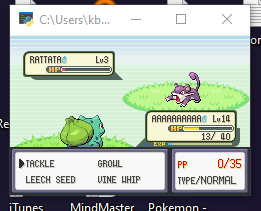
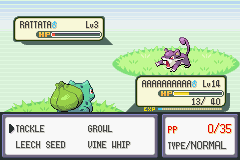
can detect out of PP and choose a different attack

diff --git a/firered/firecv.py b/firered/firecv.py
@@ -11,6 +11,13 @@ import vision
 env = retro.make('PokemonFireRedVersion-GbAdvance', 'start')
 env.reset()
 
+directions = [
+    [0, 0, 0, 0, 0, 0, 0, 1, 0, 0, 0, 0], # move right
+    [0, 0, 0, 0, 0, 1, 0, 0, 0, 0, 0, 0], # move down
+    [0, 0, 0, 0, 0, 0, 1, 0, 0, 0, 0, 0], # move left
+    [0, 0, 0, 0, 1, 0, 0, 0, 0, 0, 0, 0]  # move up
+]
+
 aButton = [0, 0, 0, 0, 0, 0, 0, 0, 1, 0, 0, 0]
 bButton = [1, 0, 0, 0, 0, 0, 0, 0, 0, 0, 0, 0]
 
@@ -20,69 +27,88 @@ tile = 16 # sixteen pixels in a square
 
 
 def increment():
-    for x in range(20):
+    for _ in range(30):
         ob, rew, done, info = env.step(empty)
         env.render()
     return ob, rew, done, info
         
 def waitForAnimation():
-    for x in range(2000):
+    for _ in range(2000):
         env.step(empty)
         env.render()
 
 def xy(info):
     return ((int)(info['x']/tile), (int)(info['y']/tile))
 
+def onTile(info):
+    x = (int)(info['x'])
+    y = (int)(info['y'])
+    return x%tile==startX%tile and y%tile==startY%tile
+
+# use world.py to walk around
+def navigate(info):
+    # update based on last move
+    x,y = xy(info)
+    world.update(x, y)
+    world.printMap()
+    # ask world what to do
+    action = world.action()
+    # reset map if there's nothing to do
+    if (action==empty):
+        world.reset()
+        action = world.action()
+    # perform action and SLAM
+    env.step(action)
+
 # getting started
 ob, rew, done, info = increment()
+startX = info['x']
+startY = info['y']
 x,y = xy(info)
 world = world.World(x, y, 1)
 world.printMap()
 
 while True:
-    # walk around world
-    action = world.action()
-    if (action==empty):
-        world.reset()
-        action = world.action()
-    
-    # SLAM
-    env.step(action)
+    # increment the game
     ob, rew, done, info = increment()
-    x,y = xy(info)
-    world.update(x, y)
-    world.printMap()
-    
-    while (vision.dialog(ob)):
+
+    # determine what mode of the game we are in using vision
+    if (vision.dialog(ob) or vision.pc(ob)):
+        print("IN DIALOG / PC")
         world.flagInteraction()
         if (vision.pc(ob)):
             env.step(bButton)
         else:
             env.step(aButton)
-        ob, rew, done, info = increment()
-    
-    while (vision.battle(ob) or vision.attack(ob)):
+    elif (vision.battle(ob) or vision.attack(ob)):
+        print("IN BATTLE")
+        world.flagBattle()
         if (vision.battledialog(ob)):
             env.step(aButton)
-            ob, rew, done, info = increment()
+        elif (vision.nopp(ob)):
+            # try to find a move with PP
+            env.step(random.choice(directions))
         else:
             env.step(aButton)
-            #waitForAnimation()
-            ob, rew, done, info = increment()
+    elif (vision.allblack(ob)):
+        print("IN BLACK SCREEN")
+        env.step(empty)
+    else:
+        print("WALKING")
+        # walk around world
+        if (onTile(info)):
+            navigate(info)
+        else:
+            print('not on tile')
+            print(info['x'])
+            print(info['y'])
+            env.step(empty)
     
-    # detect traps
-    while (vision.allblack(ob)):
-        print("black screen")
-        x = info['x']
-        y = info['y']
-        print((x, y))
-        ob, rew, done, info = increment()
-        print((info['x'], info['y']))
-        if (info['x']!=x or info['y']!=y):
-            world.reset() # warped
+    '''
     if (vision.inside(ob)):
         print("leaving room")
         #world.reset()
         #waitForAnimation()
         #env.step(directions[1])
         #increment()
+    '''

diff --git a/firered/world.py b/firered/world.py
@@ -46,6 +46,7 @@ class World:
     def reset(self):
         self.changingDirection = False
         self.shouldInteract = False
+        self.justBattled = False
         self.origin = [1, 1]
         self.map = [[unknown, unknown, unknown], [unknown, start, unknown], [unknown, unknown, unknown]]
         self.frontier = [ (1, 0), (0, 1) ]
@@ -154,7 +155,9 @@ class World:
 
     # convert direction to row,col deltas
     def directionDelta(self, direction):
-        if (self.direction==0):
+        if (self.direction==-1):
+            return (0, 0)
+        elif (self.direction==0):
             return (0, 1)
         elif (self.direction==1):
             return (1, 0)
@@ -229,6 +232,16 @@ class World:
             self.map[mapRow][mapCol] = interactable
         self.removeFrontier(pRow, pCol)
 
+    def flagBattle(self):
+        # confirm to the world walker that it's okay he didn't move
+        self.justBattled = True
+        # retroactively mark the tile in front as unknown
+        deltaRow, deltaCol = self.directionDelta(self.direction)
+        pRow, pCol = self.playerRow + deltaRow, self.playerCol + deltaCol
+        mapRow, mapCol = self.toMap((pRow, pCol))
+        if (self.map[mapRow][mapCol]!=start):
+            self.map[mapRow][mapCol] = unknown
+
     def update(self, x, y):
         deltaRow, deltaCol = self.directionDelta(self.direction)
         expectedX, expectedY = self.x + deltaCol, self.y - deltaRow # convert between x,y and row,col
@@ -242,7 +255,9 @@ class World:
         if (self.shouldInteract):
             self.shouldInteract = False
         elif (self.changingDirection):
-            self.changingDirection = False        
+            self.changingDirection = False
+        elif (self.justBattled):
+            self.justBattled = False        
         elif (self.x==expectedX and self.y==expectedY):
             #print("prev xy: %d, %d" % (self.prevX, self.prevY))
             #print("delt xy: %d, %d" % (deltaCol, -deltaRow))
@@ -257,11 +272,8 @@ class World:
             self.playerRow = pRow
             self.playerCol = pCol
             self.expandMap(self.direction) # add a row/column based on movement
-        else:
-            print("expected:")
-            print((expectedX, expectedY))
-            print("actual:")
-            print((self.x,self.y))
+        elif (self.x==self.prevX and self.y==self.prevY):
+            print("ran into obstacle!")
             # there is a wall where you wanted to go
             if (self.map[mapRow][mapCol]!=start):
                 self.map[mapRow][mapCol] = wall
@@ -269,3 +281,11 @@ class World:
             self.removeFrontier(pRow, pCol)
             # flag to interact with this next time step
             self.shouldInteract = True
+        else:
+            print("moved more than expected!")
+            print("before:")
+            print((self.prevX, self.prevY))
+            print("actual:")
+            print((self.x,self.y))
+            self.reset()
+            

diff --git a/firered/vision.py b/firered/vision.py
@@ -6,6 +6,7 @@ black = [0, 0, 0]
 white = [248, 248, 248]
 blue = [40, 80, 104]
 grey = [112, 104, 128]
+red = [232, 0, 0]
 
 def sameColor(a, b):
     return a[0]==b[0] and a[1]==b[1] and a[2]==b[2]
@@ -54,3 +55,8 @@ def pc(ob):
             return False
     return True
 
+def nopp(ob):
+    for i in range(127, 132):
+        if (not sameColor(ob[i][168], red)):
+            return False
+    return True
